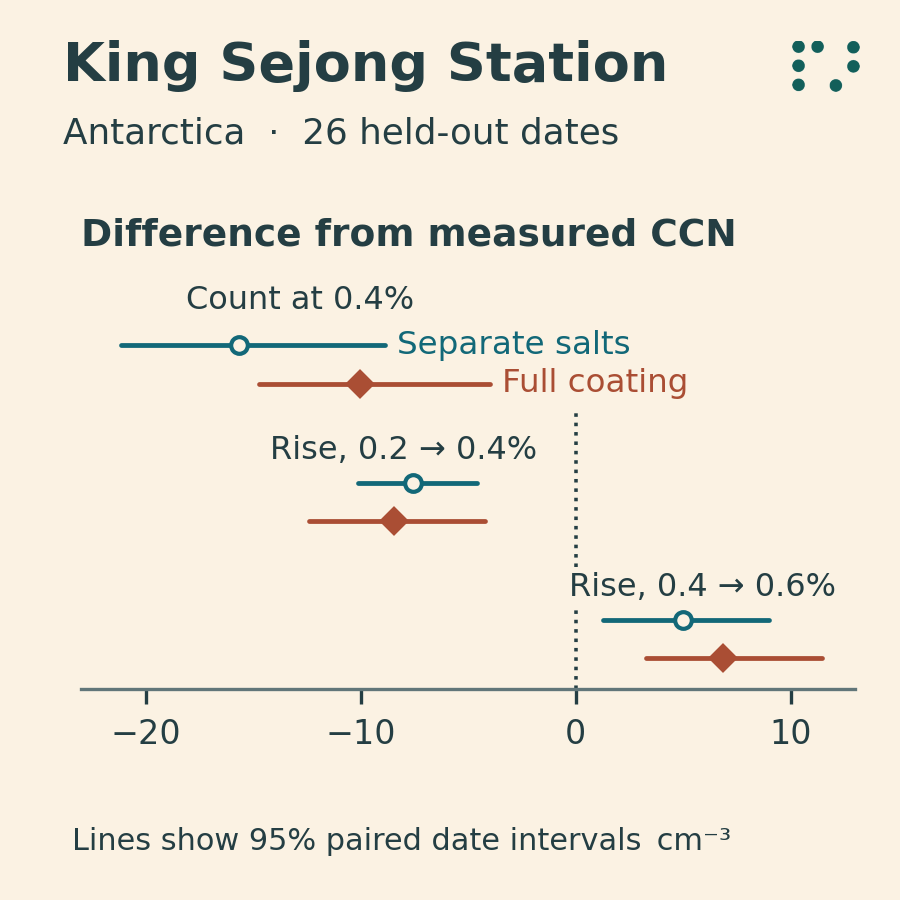
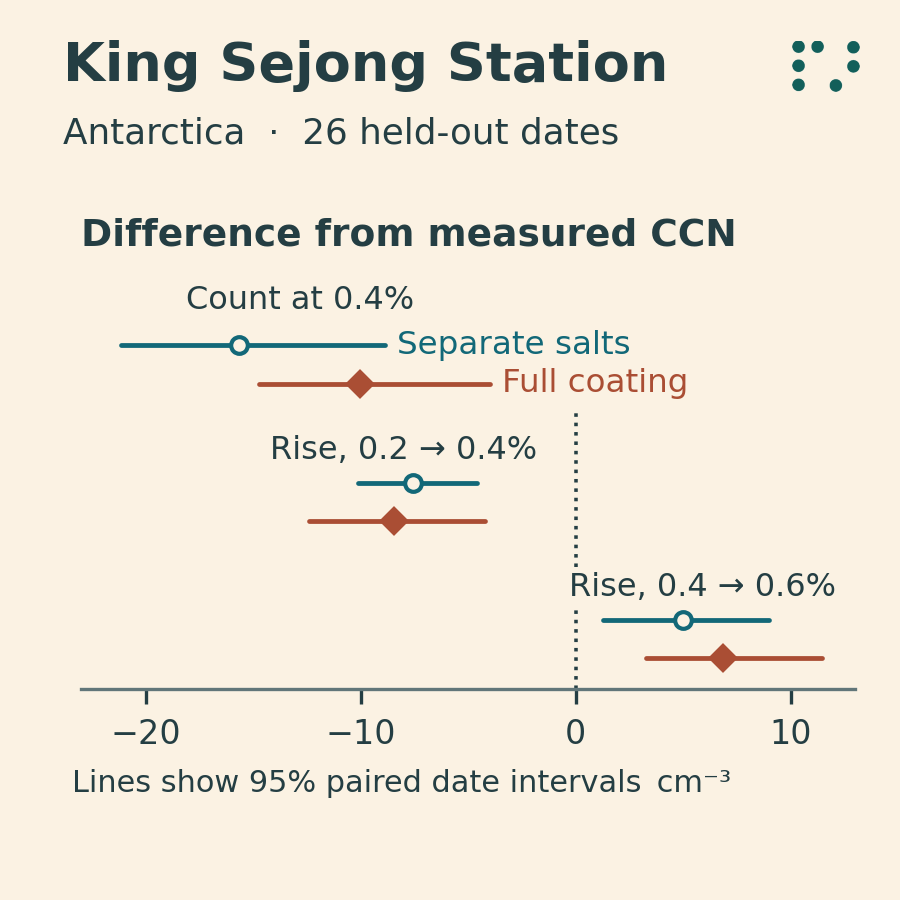
docs: close vertical gap below Antarctic CCN tick labels

Changed region(s): [[0.0933, 0.84, 0.7156, 0.9644], [0.7467, 0.84, 0.7778, 0.9644]]

diff --git a/scripts/antarctic_ccn/toc.py b/scripts/antarctic_ccn/toc.py
@@ -96,7 +96,7 @@ def render():
             ax.spines[side].set_visible(False)
         fig.text(
             0.08,
-            0.055,
+            0.12,
             "Lines show 95% paired date intervals cm⁻³",
             fontsize=7.3,
         )
